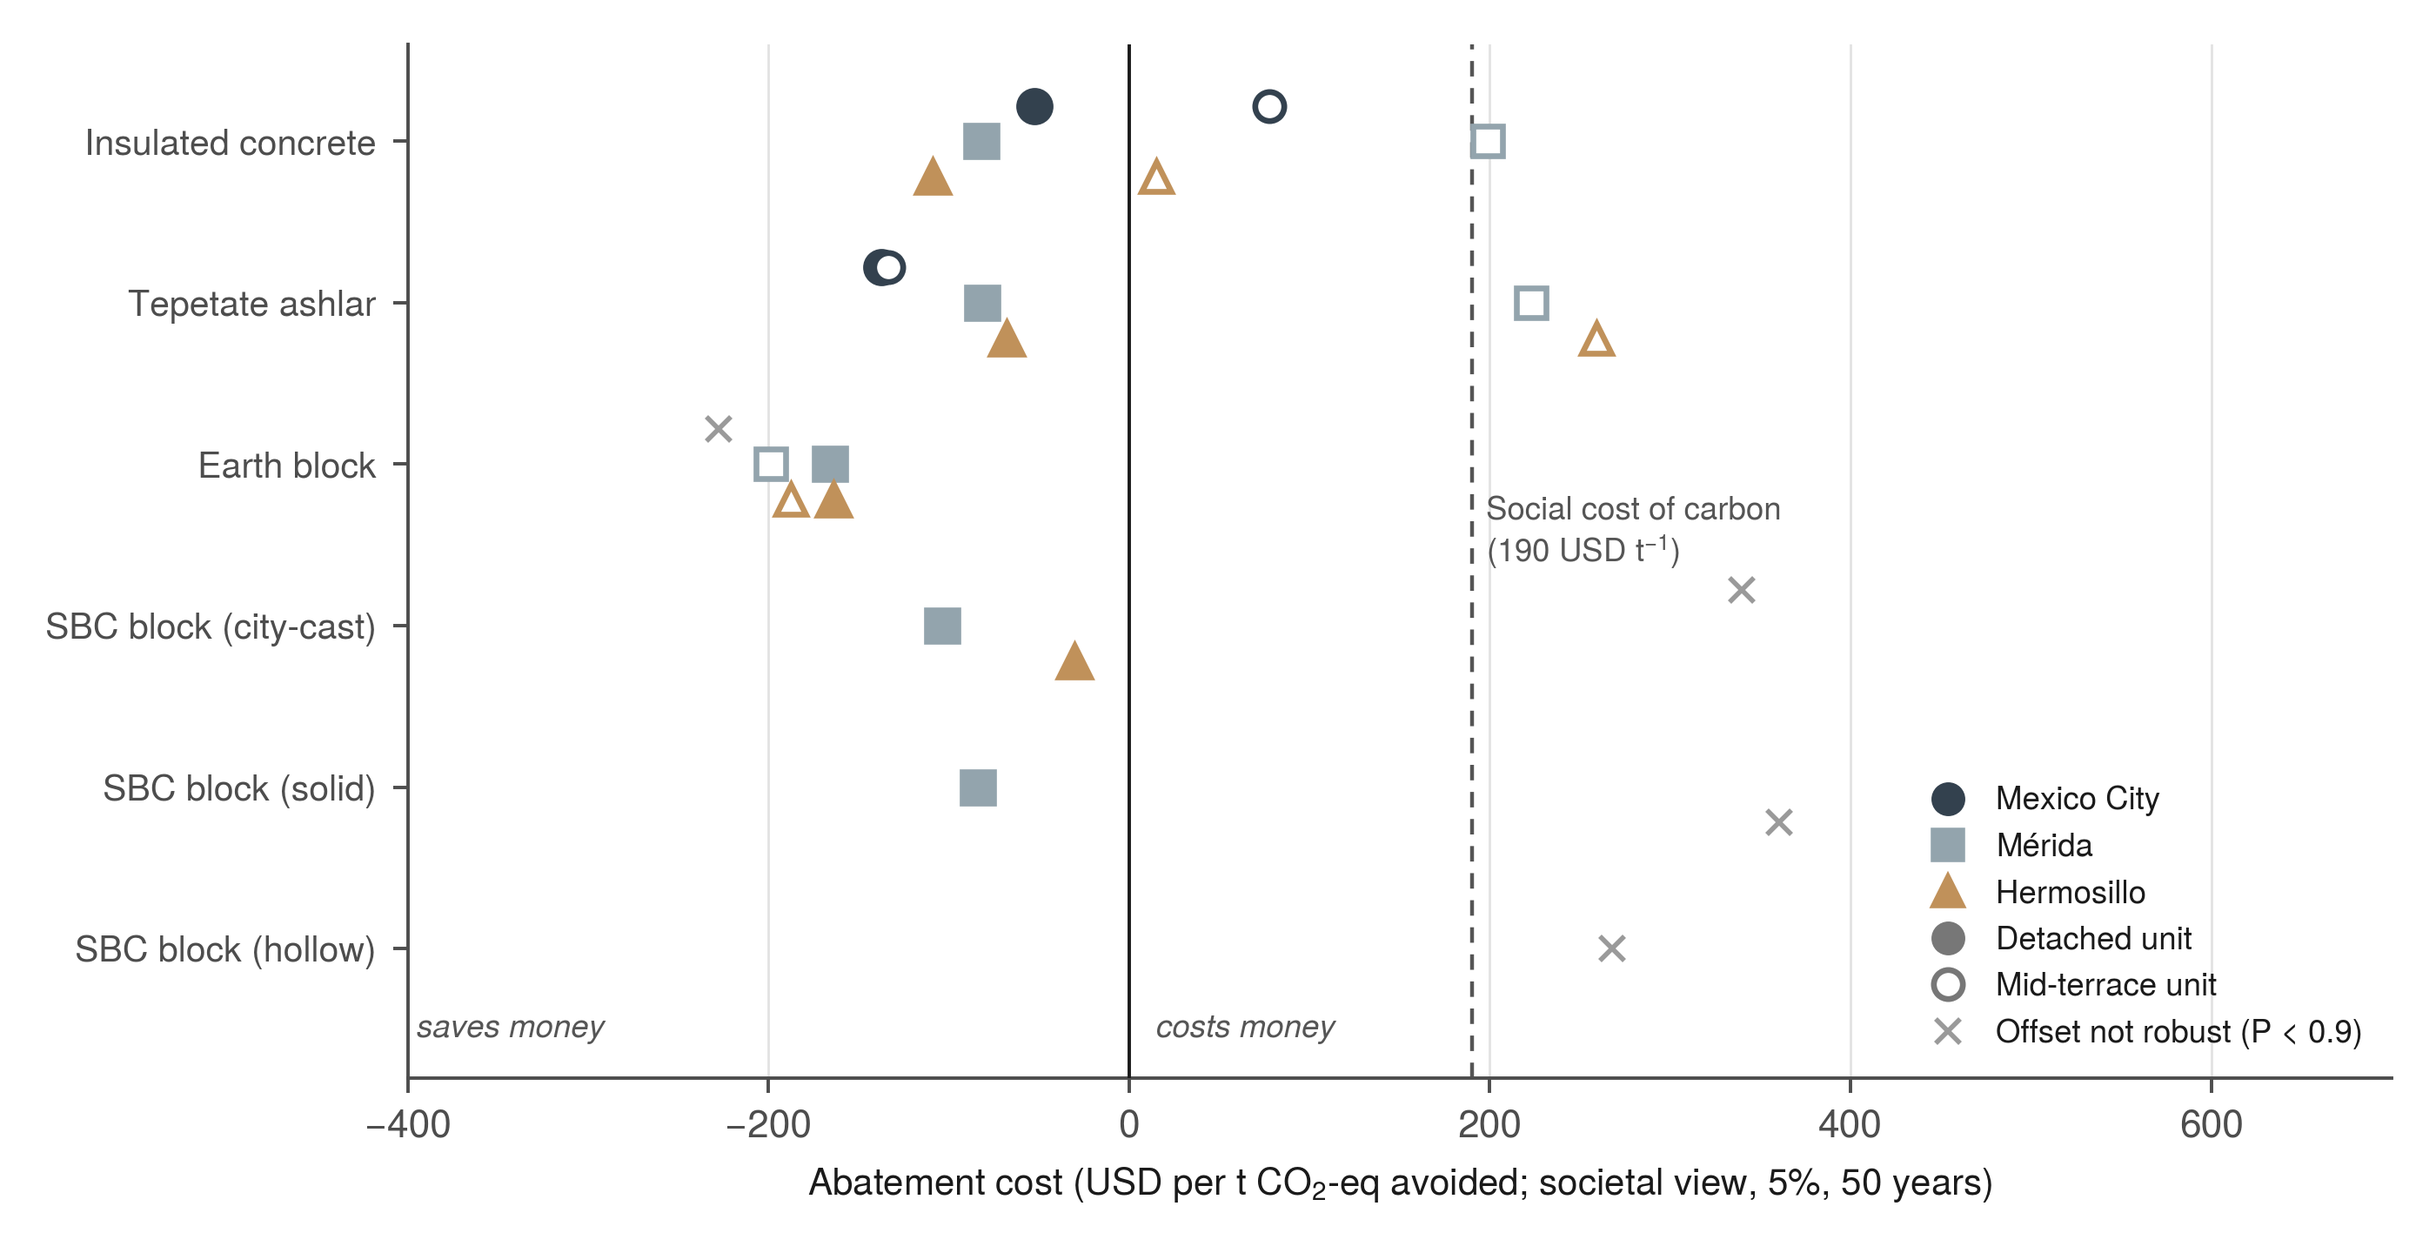
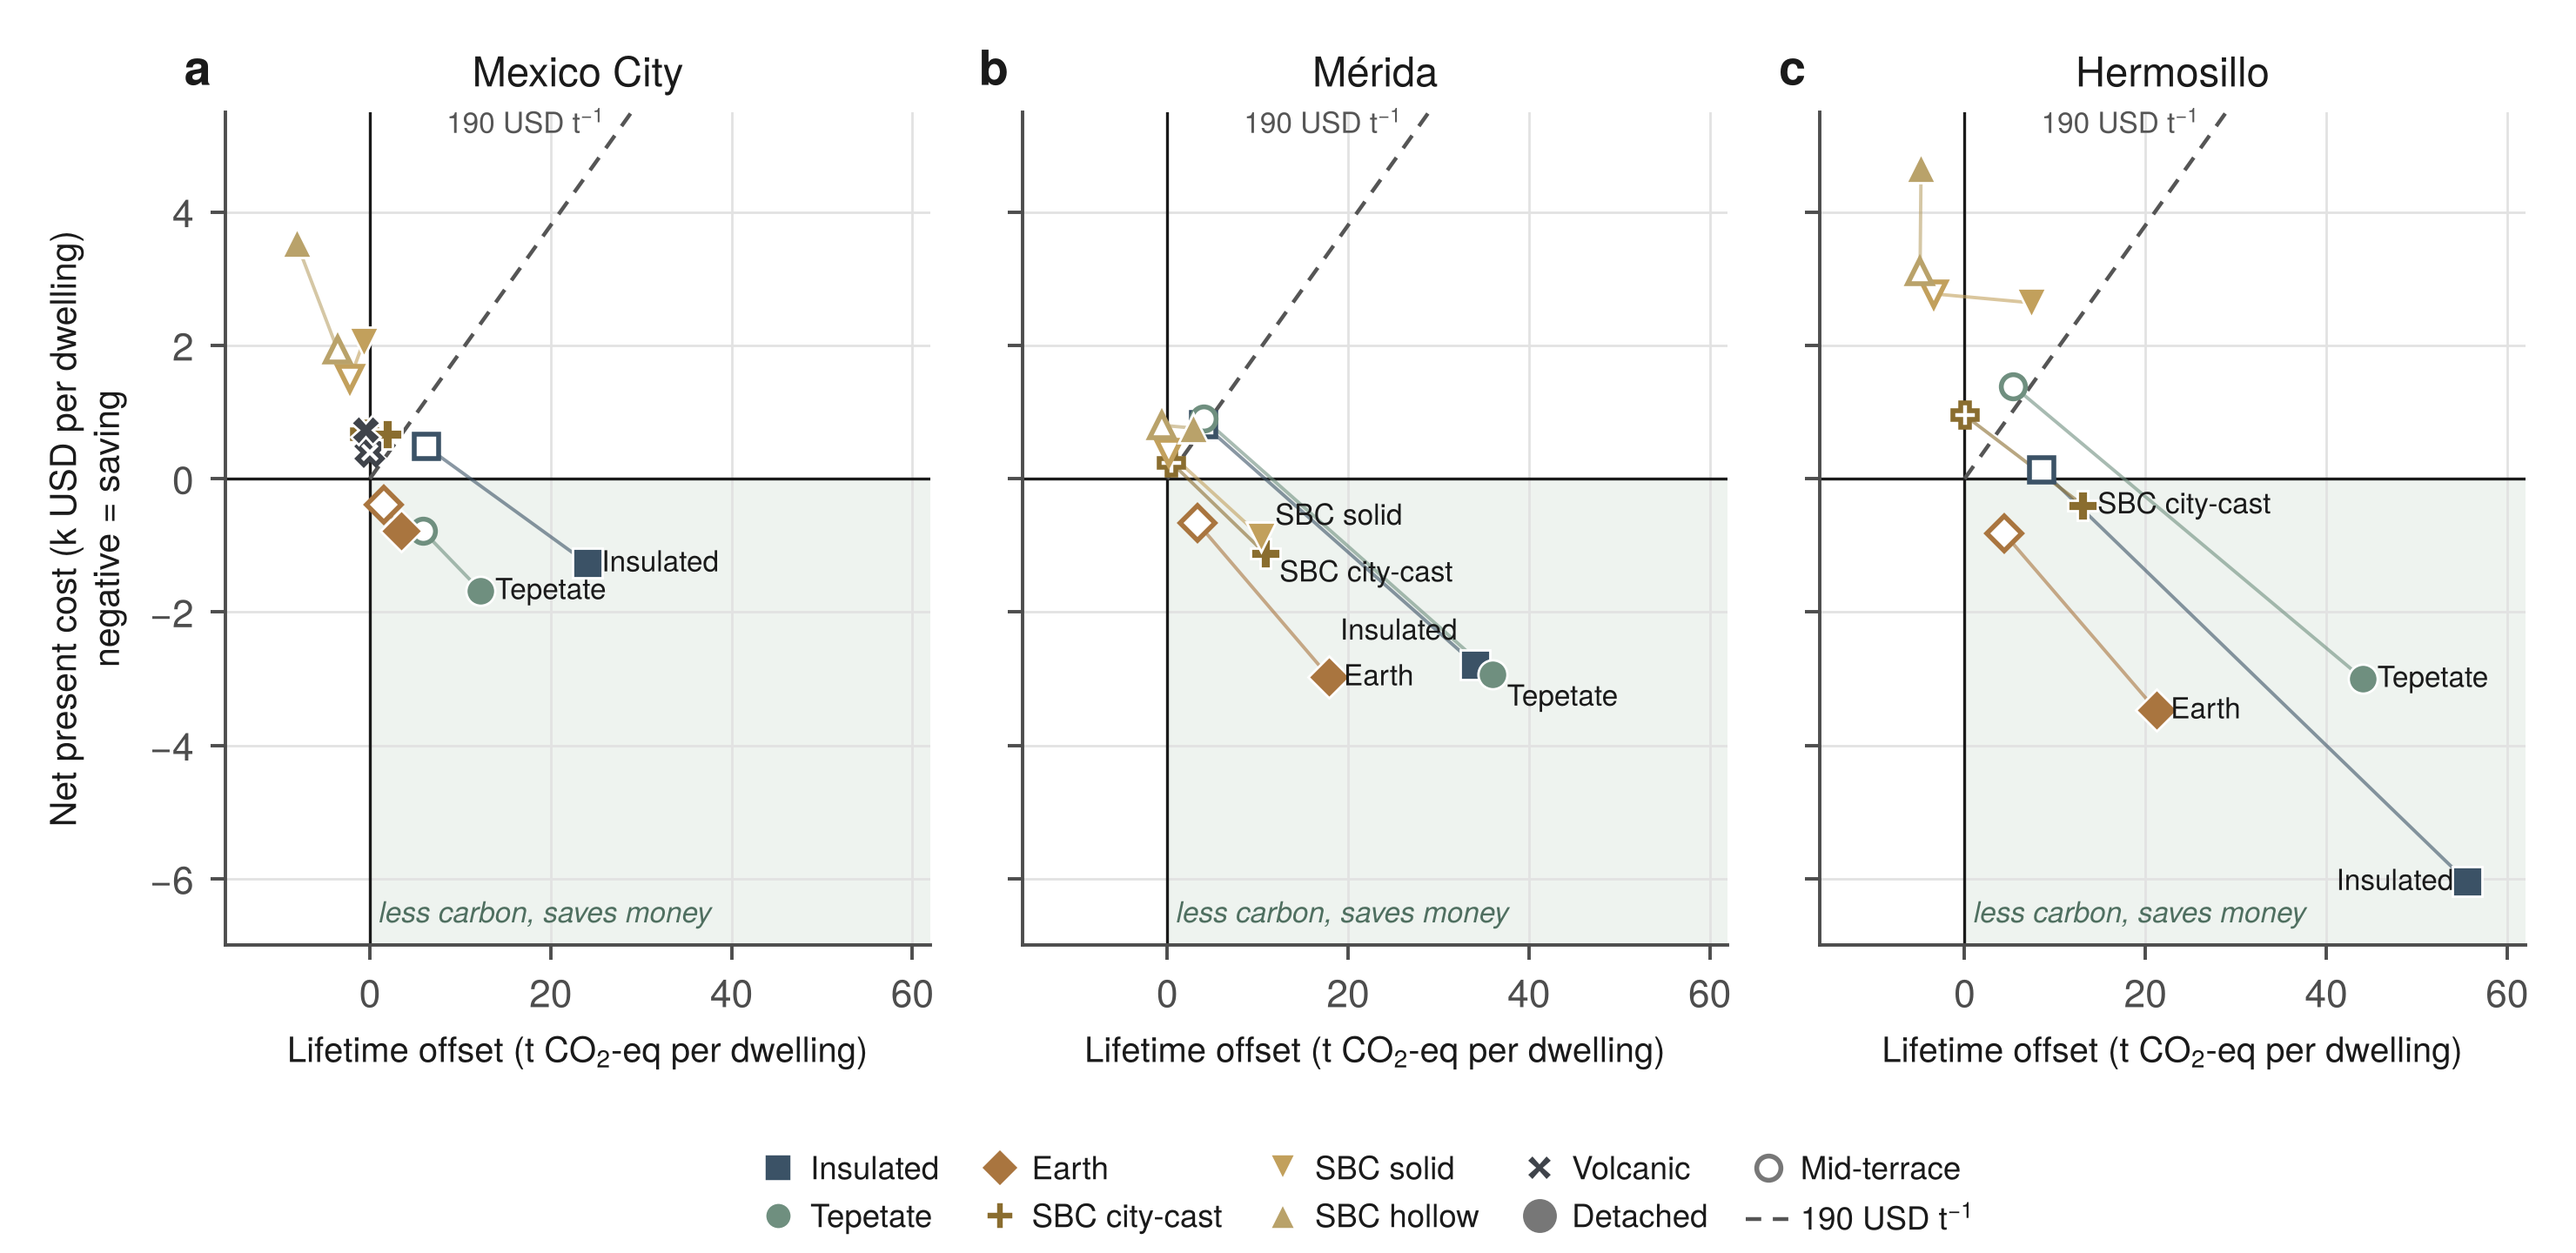
Figure 12: cost-effectiveness map (offset vs net present cost) replaces abatement-cost dot plot
Claude-Session: https://claude.ai/code/session_01WxLhwdsi2grlrtqw9m7ou8

diff --git a/pipeline/mk_fig_extra.py b/pipeline/mk_fig_extra.py
@@ -41,42 +41,51 @@ H = [Patch(fc=COMP[k][1], label=COMP[k][0]) for k in ("op", "prod", "tr")] + \
 fig.legend(handles=H, loc="lower center", ncol=4, fontsize=7, frameon=False, bbox_to_anchor=(0.55, -0.005))
 plt.tight_layout(rect=(0, 0.06, 1, 1)); plt.savefig(os.path.join(HERE, "nat_decomp.png")); plt.close()
 
-# ---------- Figure: abatement cost ----------
-# Shown in full colour only where the detached-dwelling offset is robust (Monte-Carlo P(dCO2>0) >= 0.9);
-# other options with a positive base-case offset are drawn as small grey crosses (indicative only).
-# Mid-terrace values (deterministic) are shown only for walls whose detached offset is robust.
-WALLS = [INS, "Tepetate ashlar", "Adobe-type block", CC, "SBC block (solid)", "SBC block (hollow)"]
-MK = {"CDMX": "o", "Warm-subhumid": "s", "Hot-arid": "^"}; OFF = {"CDMX": 0.22, "Warm-subhumid": 0.0, "Hot-arid": -0.22}
-PMIN = 0.9
-fig, ax = plt.subplots(figsize=(7.0, 3.6))
-yy = np.arange(len(WALLS))[::-1]
-for yi, m in zip(yy, WALLS):
-    for c in CLIM:
-        p = R["MC"][c][m]["pco2"]
-        for var, filled in (("det", True), ("mid", False)):
-            d = V["dwelling"][var][c][m]
-            if d["dCO2"] <= 0.5: continue
-            ac = d["dC"] / FX / d["dCO2"]; col = S.CLIMCOL[c]; x = np.clip(ac, -400, 700)
-            if p < PMIN:
-                if filled: ax.plot(x, yi + OFF[c], marker="x", ms=5, ls="none", color="#9a9a9a", mew=1.0, zorder=3)
-                continue
-            ax.plot(x, yi + OFF[c], marker=MK[c], ms=6.5 if filled else 6.0, ls="none",
-                    color=col if filled else "white", mec=col, mew=1.2, zorder=4)
-ax.axvline(0, color=INK, lw=0.7, zorder=3)
-ax.axvline(190, color=S.MUT, lw=0.8, ls=(0, (4, 3)), zorder=2)
-ax.text(198, yy[2] - 0.2, "Social cost of carbon\n(190 USD t$^{-1}$)", fontsize=6.6, color=S.MUT, va="top", ha="left")
-ax.text(-395, yy[-1] - 0.5, "saves money", fontsize=6.6, color=S.MUT, va="center", ha="left", style="italic")
-ax.text(15, yy[-1] - 0.5, "costs money", fontsize=6.6, color=S.MUT, va="center", ha="left", style="italic")
-ax.set_yticks(yy); ax.set_yticklabels([NAME[m] for m in WALLS], fontsize=7.4); ax.set_ylim(yy[-1] - 0.8, yy[0] + 0.6)
-ax.set_xlim(-400, 700); ax.xaxis.grid(True, color=S.GRID, lw=0.5, zorder=0)
-ax.set_xlabel("Abatement cost (USD per t CO$_2$-eq avoided; societal view, 5%, 50 years)", fontsize=7.6)
-S.despine(ax)
-H = [Line2D([], [], marker=MK[c], ls="none", color=S.CLIMCOL[c], mec=S.CLIMCOL[c], ms=6, label=S.CLIMLAB[c].split(" (")[0]) for c in CLIM] + \
-    [Line2D([], [], marker="o", ls="none", color="#777777", ms=6, label="Detached unit"),
-     Line2D([], [], marker="o", ls="none", color="white", mec="#777777", mew=1.2, ms=6, label="Mid-terrace unit"),
-     Line2D([], [], marker="x", ls="none", color="#9a9a9a", mew=1.0, ms=5, label="Offset not robust (P < 0.9)")]
-ax.legend(handles=H, loc="lower right", fontsize=6.6, frameon=False, ncol=1)
-plt.tight_layout(); plt.savefig(os.path.join(HERE, "nat_abatement.png")); plt.close()
+# ---------- Figure: cost-effectiveness map (replaces the abatement-cost dot plot) ----------
+# x: lifetime offset (t CO2-eq per dwelling), y: net present cost (k USD, societal view).
+# Lines through the origin are iso-abatement-cost lines (0 and 190 USD/t); points below a line abate at a lower cost.
+# Filled marker: detached dwelling; open marker: mid-terrace; a thin line joins the two for each wall.
+WALLS = [INS, "Tepetate ashlar", "Adobe-type block", CC, "SBC block (solid)", "SBC block (hollow)", "Volcanic stone (recinto)"]
+WCOL = {INS: "#3b5266", "Tepetate ashlar": S.MATCOL["Tepetate"], "Adobe-type block": S.MATCOL["Adobe"], CC: "#8a6d2f",
+        "SBC block (solid)": S.MATCOL["SBC solid"], "SBC block (hollow)": "#b9a26a", "Volcanic stone (recinto)": S.MATCOL["Volcanic stone"]}
+WMK = {INS: "s", "Tepetate ashlar": "o", "Adobe-type block": "D", CC: "P", "SBC block (solid)": "v", "SBC block (hollow)": "^", "Volcanic stone (recinto)": "X"}
+SHORT = {INS: "Insulated", "Tepetate ashlar": "Tepetate", "Adobe-type block": "Earth", CC: "SBC city-cast",
+         "SBC block (solid)": "SBC solid", "SBC block (hollow)": "SBC hollow", "Volcanic stone (recinto)": "Volcanic"}
+fig, axes = plt.subplots(1, 3, figsize=(7.4, 3.6), sharey=True)
+XL, YL = (-16, 62), (-7.0, 5.5)
+for k, c in enumerate(CLIM):
+    ax = axes[k]
+    ax.fill_between([0, XL[1]], YL[0], 0, color="#eef3ef", zorder=0, lw=0)
+    ax.axhline(0, color=INK, lw=0.6, zorder=1); ax.axvline(0, color=INK, lw=0.6, zorder=1)
+    xs = np.linspace(0, XL[1], 10)
+    ax.plot(xs, 190 * xs / 1000, color=S.MUT, lw=0.8, ls=(0, (4, 3)), zorder=1)
+    ax.text(26, 190 * 26 / 1000 + 0.15, "190 USD t$^{-1}$", fontsize=6.0, color=S.MUT, ha="right", va="bottom")
+    for m in WALLS:
+        d = V["dwelling"]["det"][c][m]; q = V["dwelling"]["mid"][c][m]
+        if m == "Volcanic stone (recinto)" and d["dCO2"] < XL[0]:
+            continue
+        xd, yd = d["dCO2"], d["dC"] / FX / 1000; xm, ym = q["dCO2"], q["dC"] / FX / 1000
+        ax.plot([xd, xm], [yd, ym], color=WCOL[m], lw=0.7, alpha=0.6, zorder=2)
+        ax.plot(xm, ym, marker=WMK[m], ms=5.0, ls="none", color="white", mec=WCOL[m], mew=1.0, zorder=3)
+        ax.plot(xd, yd, marker=WMK[m], ms=6.0, ls="none", color=WCOL[m], mec="white", mew=0.5, zorder=4)
+        DY = {("Warm-subhumid", INS): 0.5, ("Warm-subhumid", "Tepetate ashlar"): -0.35,
+              ("Warm-subhumid", "SBC block (solid)"): 0.3, ("Warm-subhumid", CC): -0.3}
+        DXL = {("Warm-subhumid", INS): -2.0, ("Hot-arid", INS): -1.5}
+        if xd > 8:
+            dx = DXL.get((c, m), 1.6); ha = "right" if dx < 0 else "left"
+            ax.text(xd + dx, yd + DY.get((c, m), 0), SHORT[m], fontsize=6.0, color=INK, va="center", ha=ha, zorder=5)
+    ax.set_xlim(*XL); ax.set_ylim(*YL); ax.grid(True, color=S.GRID, lw=0.5, zorder=0)
+    ax.set_xlabel("Lifetime offset (t CO$_2$-eq per dwelling)", fontsize=7.2)
+    S.despine(ax); S.panel(ax, "abc"[k], x=-0.02, y=1.02)
+    ax.text(0.5, 1.02, S.CLIMLAB[c].split(" (")[0], transform=ax.transAxes, ha="center", va="bottom", fontsize=8.5)
+    ax.text(1.0, YL[0] + 0.25, "less carbon, saves money", fontsize=6.0, color="#4f6f60", ha="left", va="bottom", style="italic")
+axes[0].set_ylabel("Net present cost (k USD per dwelling)\nnegative = saving", fontsize=7.4)
+H = [Line2D([], [], marker=WMK[m], ls="none", color=WCOL[m], mec="white", ms=6, label=SHORT[m]) for m in WALLS] + \
+    [Line2D([], [], marker="o", ls="none", color="#777777", ms=6, label="Detached"),
+     Line2D([], [], marker="o", ls="none", color="white", mec="#777777", mew=1.0, ms=5, label="Mid-terrace"),
+     Line2D([], [], color=S.MUT, lw=0.8, ls=(0, (4, 3)), label="190 USD t$^{-1}$")]
+fig.legend(handles=H, loc="lower center", ncol=5, fontsize=6.6, frameon=False, bbox_to_anchor=(0.53, -0.01), columnspacing=1.2, handletextpad=0.3)
+plt.tight_layout(rect=(0, 0.11, 1, 1)); plt.savefig(os.path.join(HERE, "nat_abatement.png")); plt.close()
 
 for f in ("nat_decomp.png", "nat_abatement.png"): shutil.copy(os.path.join(HERE, f), os.path.join(DST, f))
 # table of abatement costs for the text
